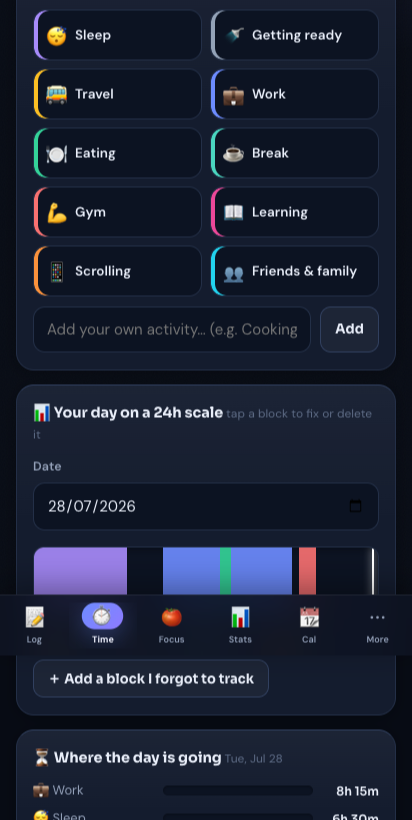
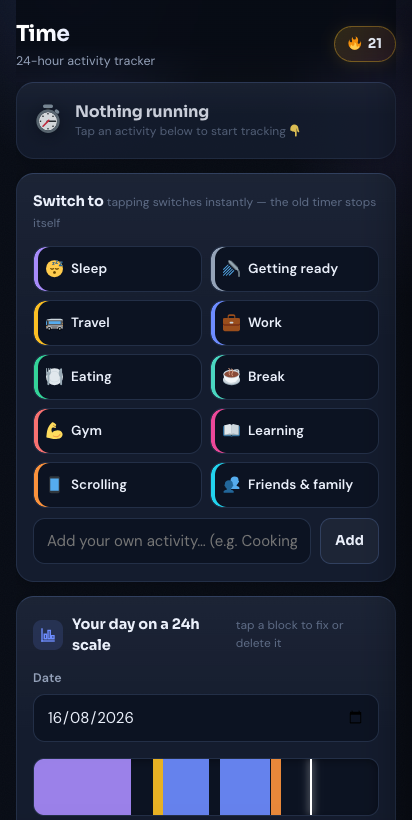
v92: refresh ALL visual assets to the new professional design + 21-day milestone message
- Play phone screenshots regenerated from the live app (412x820): Log with tracked
  chips + auto task counts, Time timeline, Stats connected-analytics, Habits, and the
  new 21-day streak celebration as a marketing shot (replaces stale calendar/write)
- Tablet screenshots (1920x1200) regenerated for both 7in and 10in slots
- How-to guide images (guide/img/*, 440w full-page) regenerated; more.png now shows
  the side drawer (the old More grid no longer exists)
- Milestone message tier for 21 days ('Three weeks in — officially unstoppable.')

All previous listing/guide images showed the pre-v82 emoji-era design.
USER ACTION: upload the new screenshots in Play Console → Store listing.

diff --git a/app.js b/app.js
@@ -5,7 +5,7 @@
 
 'use strict';
 
-const APP_VERSION = 'v91';   // shown in More ▸ About so you can confirm the build on each device
+const APP_VERSION = 'v92';   // shown in More ▸ About so you can confirm the build on each device
 
 /* ---------- Config: your habits (from the Daily Pulse form) ----------
    DEFAULT_HABITS is only the starting point — the Customize screen
@@ -732,6 +732,7 @@ function showMilestone(n) {
   const confetti = Array.from({ length: 44 }, (_, i) =>
     `<span class="mf" style="left:${(i * 137) % 100}%;background:${['#6d8cff','#4ad6c0','#fbbf24','#f87171','#a78bfa','#34d399'][i % 6]};animation-delay:${(i % 11) * .14}s;animation-duration:${2.2 + (i % 5) * .35}s"></span>`).join('');
   const msg = n >= 100 ? 'Legendary. This is who you are now.' : n >= 30 ? 'A full month of showing up. Unreal.' :
+              n >= 21 ? 'Three weeks in — officially unstoppable.' :
               n >= 14 ? 'Two weeks strong — this is a habit now.' : n >= 7 ? 'A whole week, every single day!' : 'Momentum! Keep the chain alive.';
   m.innerHTML = `<div class="mf-wrap">${confetti}</div>
     <div class="ms-inner">

diff --git a/sw.js b/sw.js
@@ -1,7 +1,7 @@
 /* Daily Pulse service worker
    Strategy: NETWORK-FIRST for the app's own files (so you ALWAYS get the latest
    when online), with cache fallback so it still works fully offline. */
-const CACHE = 'daily-pulse-v91';
+const CACHE = 'daily-pulse-v92';
 const ASSETS = [
   './', './index.html', './styles.css', './app.js',
   './workout-anims.js', './workout-plan.js',
